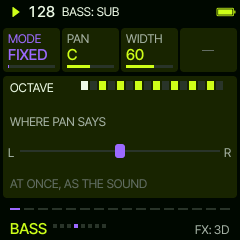
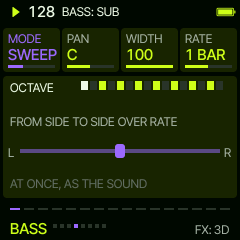
Sardine 0.8.14: PAN set moving: SWEEP from the centre, WIDTH 100, a bar; 3D on: ORBIT over two bars, level, DIST 10
Claude-Session: https://claude.ai/code/session_01VgesZgNNDFiPGvKyDTZVUK

diff --git a/firmware/src/sa_ui.c b/firmware/src/sa_ui.c
@@ -1898,7 +1898,12 @@ void sv_knob(sa_ui *u, int k, int d)
         break;
     case SVP_PAN: {
         sa_pan *p = &s->pan[l];
-        if (i == 0) p->mode = (uint8_t)sv_clampi(p->mode + d, 0, SA_PAN_MODES - 1);
+        if (i == 0 && p->mode == SA_PAN_FIXED && d > 0) {   /* moving: SWEEP, from the centre, all the way, a bar */
+            p->mode = SA_PAN_SWEEP;
+            p->pos = 0;
+            p->width = 100;
+            p->rate = SA_PRATE_BAR;
+        } else if (i == 0) p->mode = (uint8_t)sv_clampi(p->mode + d, 0, SA_PAN_MODES - 1);
         else if (i == 1) p->pos = (int8_t)sv_clampi(p->pos + d * 2, -50, 50);
         else if (i == 2) SV_ADJ(p->width, 5, 0, 100);
         else p->rate = (uint8_t)sv_clampi(p->rate + d, 0, SA_PRATES - 1);
@@ -1907,8 +1912,14 @@ void sv_knob(sa_ui *u, int k, int d)
     case SVP_3D: {                                 /* (turning ANGLE HEIGHT DISTANCE turns it on) */
         int pp = sv_clampi(e->part, 0, SA_SYNTHS - 1);
         sa_3d *d3 = &s->d3[pp];
+        if (!d3->on && (i > 0 || d > 0)) {         /* on: ORBIT round you over 2 bars, level, near (10) */
+            d3->on = SA_3D_ORBIT;
+            s->d3rate[pp] = SA_PRATE_2BARS;
+            d3->el = 0;
+            d3->dist = 10;
+            if (i == 0) break;
+        }
         if (i == 0) { d3->on = (uint8_t)sv_clampi(d3->on + d, 0, SA_3D_MODES - 1); break; }
-        if (!d3->on) d3->on = SA_3D_FIXED;        /* (turning the others turns it on) */
         if (i == 1 && (d3->on == SA_3D_ORBIT || d3->on == SA_3D_FLY))
             s->d3rate[pp] = (uint8_t)sv_clampi(s->d3rate[pp] + d, 0, SA_PRATES - 1);
         else if (i == 1) d3->az = (uint8_t)sv_wrap(d3->az + d, SA_AZ_STEPS);

diff --git a/tests/sa_ui_test.c b/tests/sa_ui_test.c
@@ -272,14 +272,22 @@ int main(int argc, char **argv)
     CHECK(sv_page_now(&ui) == SVP_ARP && g.ed[SA_L_BASS].amode == SA_AR_OFF, "FX: ARP on BASS too, OFF");
     press(SV_B_FX);
     CHECK(sv_page_now(&ui) == SVP_PAN, "FX: PAN");
+    sv_knob(&ui, SV_K1, 1);
+    CHECK(g.s.pan[SA_L_BASS].mode == SA_PAN_SWEEP && g.s.pan[SA_L_BASS].pos == 0 && g.s.pan[SA_L_BASS].width == 100 &&
+          g.s.pan[SA_L_BASS].rate == SA_PRATE_BAR, "PAN moving: SWEEP from the centre, WIDTH 100, a bar");
     shot("07_bass_pan");
+    sv_knob(&ui, SV_K1, -1);
     press(SV_B_FX);
     CHECK(sv_page_now(&ui) == SVP_3D, "FX: 3D");
+    sv_knob(&ui, SV_K1, 1);
+    CHECK(g.s.d3[SA_L_BASS].on == SA_3D_ORBIT && g.s.d3rate[SA_L_BASS] == SA_PRATE_2BARS && g.s.d3[SA_L_BASS].el == 0 &&
+          g.s.d3[SA_L_BASS].dist == 10, "3D on: ORBIT over 2 bars, level, DIST 10");
+    sv_knob(&ui, SV_K1, -1);
     sv_knob(&ui, SV_K2, 27);
     sv_knob(&ui, SV_K3, 4);
     sv_knob(&ui, SV_K4, 10);
     CHECK(g.s.d3[SA_L_BASS].on == SA_3D_FIXED && g.s.d3[SA_L_BASS].az == 27 && g.s.d3[SA_L_BASS].el == 20 &&
-          g.s.d3[SA_L_BASS].dist == 50, "3D: ANGLE HEIGHT DISTANCE turn it on, FIXED");
+          g.s.d3[SA_L_BASS].dist == 60, "3D FIXED: ANGLE HEIGHT DISTANCE");
     run_ms(50);
     CHECK(g.pan_now[SA_L_BASS] > 30, "3D: behind on the right pans right (%d)", g.pan_now[SA_L_BASS]);
     shot("07b_bass_3d");

diff --git a/firmware/src/sa_version.h b/firmware/src/sa_version.h
@@ -2,5 +2,5 @@
 /* Sardine's version: the splash, MENU, the package and the release (the workflow reads SA_VERSION here) */
 #ifndef SA_VERSION_H
 #define SA_VERSION_H
-#define SA_VERSION "0.8.13"
+#define SA_VERSION "0.8.14"
 #endif

diff --git a/docs/MANUAL.md b/docs/MANUAL.md
@@ -1,6 +1,6 @@
 # Sardine manual
 
-Sardine 0.8.13. Live club mixing on the FM-1: four layers, always there, each one on or OFF: **LEAD**, **CHORD**,
+Sardine 0.8.14. Live club mixing on the FM-1: four layers, always there, each one on or OFF: **LEAD**, **CHORD**,
 **BASS** and **DRUMS**. A layer is a sound and a pattern, bent by modifiers. Its sound, filter, pan and level act at
 once, as you turn; its pattern, steps and modifiers wait, in the second colour, until **SEQ** drops them in on the
 one: the next bar line.
@@ -87,8 +87,8 @@ LEAD lead lines and the bass lines). FX turns through its pages:
 | --- | --- | --- | --- | --- | --- |
 | MIX (the first) | VOLUME (fades it in and out) | TYPE (BASS KEYS PADS LEADS FX) | INSTR (the sound, by name; the header says it whole) | MUTE | at once |
 | ARP | MODE (OFF, UP, DOWN, UP-DOWN, DOWN-UP, CONVERGE, DIVERGE, RANDOM, THUMB, PINKY, STRUM) | RATE | RANGE | GATE | waits for SEQ |
-| PAN | MODE (FIXED, SWEEP, PING-PONG, RANDOM) | PAN | WIDTH | RATE (SWEEP) | at once |
-| 3D | MODE (OFF FIXED ORBIT RANDOM FLY) | ANGLE (FIXED) or RATE (ORBIT, FLY) | HEIGHT | DIST | at once |
+| PAN | MODE (FIXED, SWEEP, PING-PONG, RANDOM; from FIXED: SWEEP from C, WIDTH 100, a bar) | PAN | WIDTH | RATE (SWEEP) | at once |
+| 3D | MODE (OFF FIXED ORBIT RANDOM FLY; on: ORBIT, 2 bars, level, DIST 10) | ANGLE (FIXED) or RATE (ORBIT, FLY) | HEIGHT | DIST | at once |
 | PUMP | DEPTH (of HOME's PUMP) | RELEASE | SOURCE (KICK, BEAT) | PUMP ON / OFF | at once |
 | GATE | a ready gate (or OFF) | DEPTH | WIDTH | SMOOTH | waits for SEQ |
 | MOD | MOD 1 | MOD 2 | MOD 3 | MOD 4 | waits for SEQ |
@@ -110,7 +110,8 @@ LEAD lead lines and the bass lines). FX turns through its pages:
 **3D** places the layer around you, for headphones: from above (FRONT up) the dot is the layer, near you or far; beside
 it, from the side, its height; the dot moves as the layer does. **MODE**: FIXED (where ANGLE says), ORBIT (round you
 over RATE, a quarter bar to four bars), RANDOM (each note somewhere else round you) and FLY (an orbit rising and
-falling about HEIGHT). Turning ANGLE, HEIGHT or DIST from OFF turns it on, FIXED. On, the angle pans the layer (the PAN
+falling about HEIGHT). Turned on from OFF (MODE, or any of the knobs) it starts as ORBIT over two bars, level
+(HEIGHT 0), near (DIST 10). On, the angle pans the layer (the PAN
 page rests), behind sounds a touch darker and softer, below darker, above brighter, far quieter, darker and wetter, and
 the layer narrows to a point. These are cues the ear reads, not a measured head model: left, right and far come across
 best; front against back and up against down are subtler and differ from one listener to the next. On speakers it is

diff --git a/README.md b/README.md
@@ -59,7 +59,7 @@ second colour, until SEQ drops them in on the one.
 
 ## Install
 
-Version 0.8.13: [install it on the FM-1](https://delirioux.github.io/sardine/install/) from Chrome or Edge (Web MIDI), with
+Version 0.8.14: [install it on the FM-1](https://delirioux.github.io/sardine/install/) from Chrome or Edge (Web MIDI), with
 the FM-1 on USB, or [try it in the browser](https://delirioux.github.io/sardine/try/) first. The `dev` branch's test
 build: [install](https://delirioux.github.io/sardine/dev/install/), [try](https://delirioux.github.io/sardine/dev/try/).
 Installing firmware is at your own risk; Felucca's [installer](https://hugelton.github.io/Felucca/webapp/installer/)

diff --git a/docs/RELEASE.md b/docs/RELEASE.md
@@ -1,4 +1,4 @@
-Sardine 0.8.13: live club mixing for the FM-1.
+Sardine 0.8.14: live club mixing for the FM-1.
 
 - Four layers, always there, each on or OFF: LEAD, CHORD, BASS and DRUMS. PRESETS goes from one to the next, FX
   through a layer's pages (MIX: VOLUME TYPE INSTR MUTE, ARP, PAN, 3D, PUMP, GATE, MOD; DRUMS: MIX, KIT, MOD), HOME back to them all

diff --git a/docs/ROADMAP.md b/docs/ROADMAP.md
@@ -1,6 +1,6 @@
 # The road to 1.0
 
-Sardine 0.8.13 has everything planned for 1.0. What is left is listening on the FM-1 and tuning what it shows.
+Sardine 0.8.14 has everything planned for 1.0. What is left is listening on the FM-1 and tuning what it shows.
 
 ## To check on the FM-1
 
